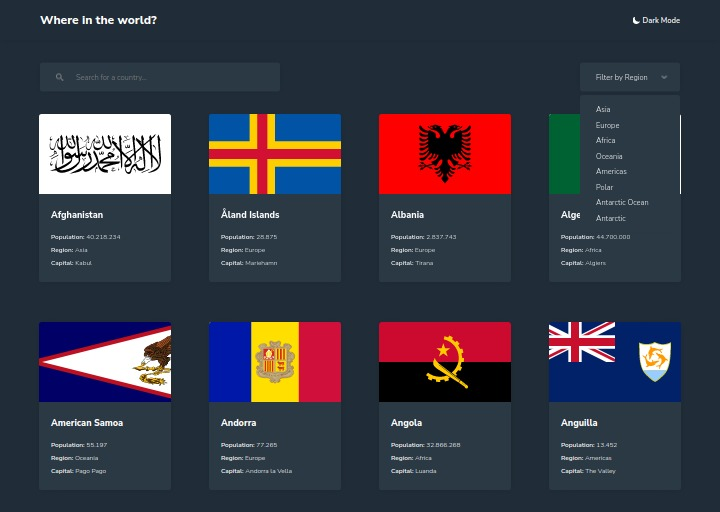
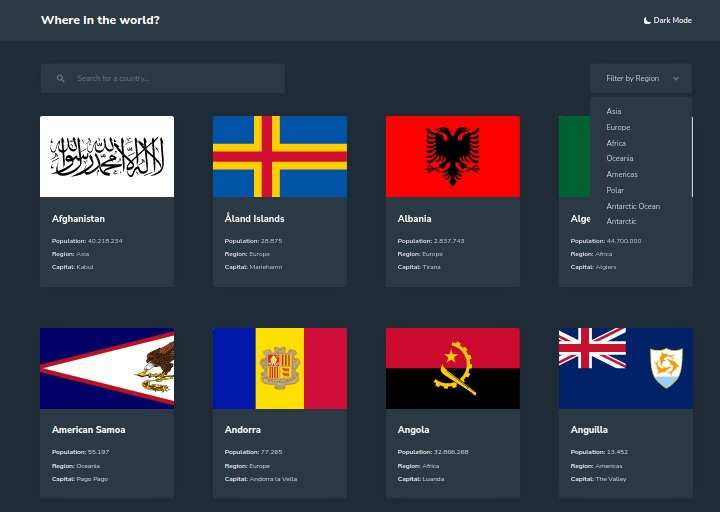
:boom: reverse colors

diff --git a/src/styles/_vars.scss b/src/styles/_vars.scss
@@ -1,26 +1,25 @@
-/* mode light */ 
+/* mode light */
 $--dark-gray: hsl(0, 0%, 52%);
 $--very-light-gray: hsl(0, 0%, 98%);
-$--white: hsl(0, 0%, 100%); 
+$--white: hsl(0, 0%, 100%);
 
 /* mode dark */
 $--dark-blue: hsl(209, 23%, 22%);
-$--very-dark-blue: hsl(207, 26%, 17%); 
+$--very-dark-blue: hsl(207, 26%, 17%);
 $--very-light-blue: hsl(200, 15%, 8%);
 
-
-
 [data-theme="light"] {
-    --shadow: hsl(0, 0%, 52%);
-    --bg-header: hsl(0, 0%, 98%);
-    --background: hsl(0, 0%, 100%);
-    --text: hsl(200, 15%, 8%)
+  --shadow: hsl(0, 0%, 52%);
+  --bg-header: hsl(0, 0%, 100%);
+  --background: hsl(0, 0%, 98%);
+  --text: hsl(200, 15%, 8%);
 }
 
 [data-theme="dark"] {
-    --shadow: hsl(200, 15%, 8%);
-    --bg-header: hsl(209, 23%, 22%);
-    --background: hsl(207, 26%, 17%);
-    --text: hsl(0, 0%, 100%);
-    --filter: invert(94%) sepia(100%) saturate(0%) hue-rotate(226deg) brightness(108%) contrast(101%);
+  --shadow: hsl(200, 15%, 8%);
+  --bg-header: hsl(209, 23%, 22%);
+  --background: hsl(207, 26%, 17%);
+  --text: hsl(0, 0%, 100%);
+  --filter: invert(94%) sepia(100%) saturate(0%) hue-rotate(226deg)
+    brightness(108%) contrast(101%);
 }

diff --git a/src/styles/Header.scss b/src/styles/Header.scss
@@ -7,6 +7,7 @@
     color: var(--text);
     padding: 0 8.0rem;
     box-shadow: 0 0 1.8rem -1.3rem var(--shadow);
+    background:var(--bg-header); 
 };
 
 .header__container {

diff --git a/src/styles/global.scss b/src/styles/global.scss
@@ -11,7 +11,7 @@ html {
     font-family: 'Nunito Sans', sans-serif;
 }
 
-body, header {
+body {
     background: var(--background);
     transition: background-color 1s;
 }

diff --git a/README.md b/README.md
@@ -73,8 +73,8 @@ Which modifies the `body` tag to set the CSS properties:
 ```css
 [data-theme="light"] {
     --shadow: hsl(0, 0%, 52%);
-    --bg-header: hsl(0, 0%, 98%);
-    --background: hsl(0, 0%, 100%);
+    --bg-header: hsl(0, 0%, 100%);
+    --background: hsl(0, 0%, 98%);
     --text: hsl(200, 15%, 8%)
 }
 
